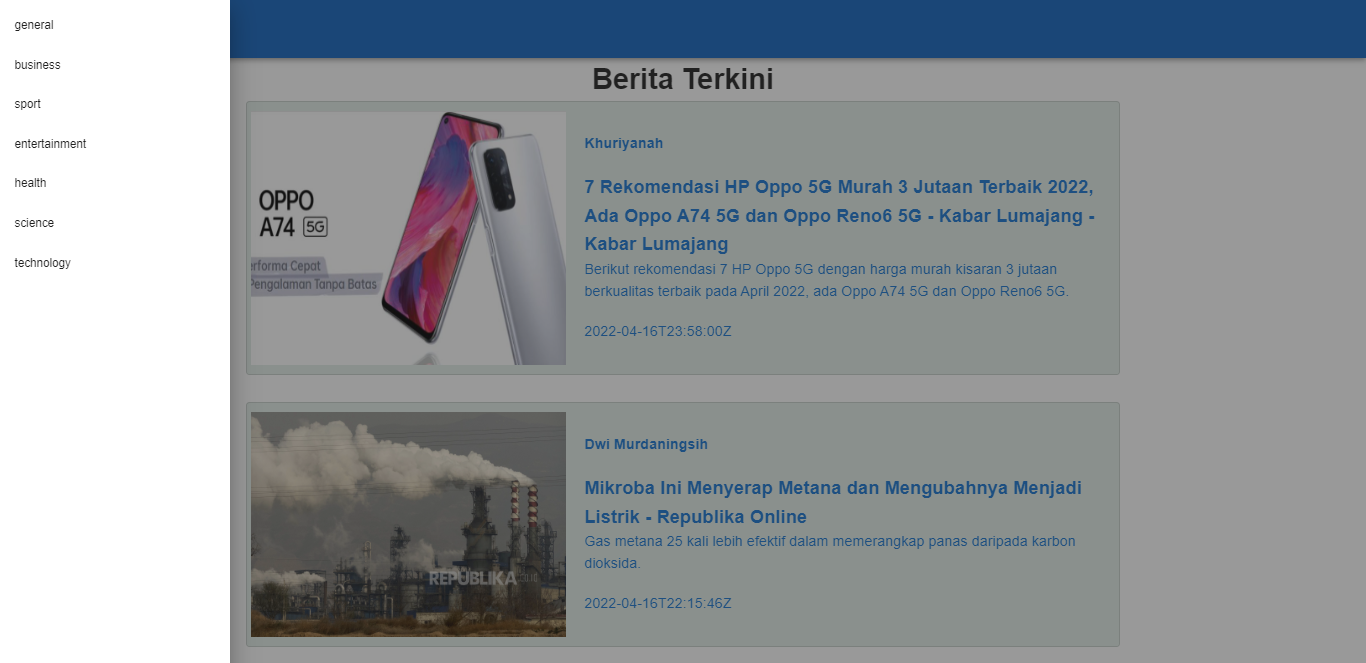
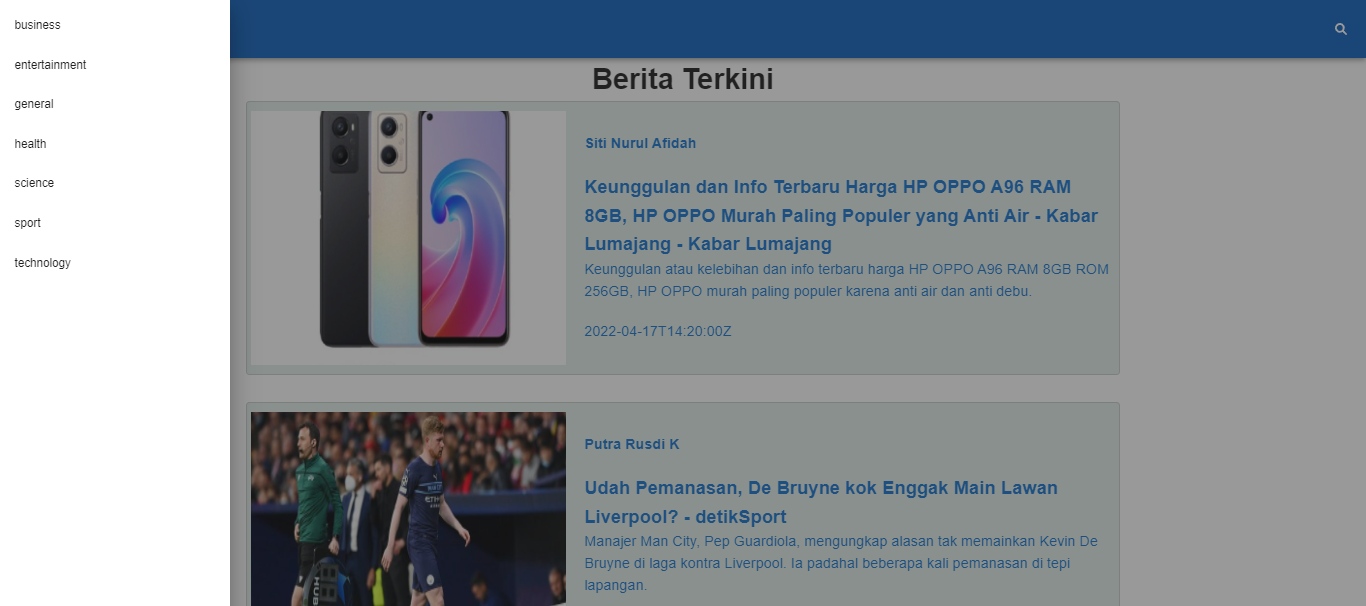
edited task Vue UI Framework

diff --git a/17_Vue UI Framework/pratikum/task-vue-ui/src/App.vue b/17_Vue UI Framework/pratikum/task-vue-ui/src/App.vue
@@ -4,18 +4,15 @@
       color="blue darken-3"
       dark
       >
-      <v-app-bar-nav-icon @click.stop="drawer = !drawer"></v-app-bar-nav-icon>
+      <v-app-bar-nav-icon @click.stop="drawer = !drawer">
+        <font-awesome-icon icon="fa-solid fa-bars" />
+      </v-app-bar-nav-icon>
       <v-toolbar-title>Berita</v-toolbar-title>
       <v-spacer></v-spacer>
-      <!-- <v-btn icon>
-        <v-icon>mdi-magnify</v-icon>
-      </v-btn>
       <v-btn icon>
-        <v-icon>mdi-filter</v-icon>
+        <font-awesome-icon icon="fa-solid fa-search" />
       </v-btn>
-      <v-btn icon>
-        <v-icon>mdi-dots-vertical</v-icon>
-      </v-btn> -->
+      
     </v-app-bar>
 
     <v-navigation-drawer
@@ -32,20 +29,12 @@
           v-model="group"
           active-class="deep-purple--text text--accent-4"
         >
-          <v-list-item v-for="(item, index) in CategoryItems" :key=index @click="kategori(item)">
+          <v-list-item v-for="(item, index) in CategoryItems" :key='index' @click="category(item)">
             <v-list-item-title> {{ item }} </v-list-item-title>
           </v-list-item>
 
           <!-- <v-list-item>
-            <v-list-item-title>Bar</v-list-item-title>
-          </v-list-item>
-
-          <v-list-item>
-            <v-list-item-title>Fizz</v-list-item-title>
-          </v-list-item>
-
-          <v-list-item>
-            <v-list-item-title>Buzz</v-list-item-title>
+            <v-list-item-title></v-list-item-title>
           </v-list-item> -->
         </v-list-item-group>
       </v-list>
@@ -59,7 +48,8 @@ export default {
   name: 'App',
   data () {
     return {
-      CategoryItems: ['general', 'business', 'sport', 'entertainment', 'health', 'science', 'technology'],
+      CategoryItems: ['business', 'entertainment', 'general', 'health', 'science', 'sport', 'technology'],
+      group: null,
       drawer: false,
     }
   },
@@ -67,7 +57,12 @@ export default {
     category(param) {
       return this.$store.dispatch('categoryListNews', param);
     },
-  }
+  },
+  watch: {
+    group () {
+      this.drawer = false
+    },
+  },
 }
 </script>
 

diff --git a/17_Vue UI Framework/pratikum/task-vue-ui/src/store/news.js b/17_Vue UI Framework/pratikum/task-vue-ui/src/store/news.js
@@ -2,13 +2,15 @@ import axios from "axios";
 const state = {
   lists: [],
   error: "",
+  kategori: "business",
   totalResults: 0,
 };
 
 const mutations = {
   setNews(state, param) {
+    // state.lists = param.articles;
+    // state.totalResults = param.totalResults;
     state.lists = param.articles;
-    state.totalResults = param.totalResults;
   },
   setError(state, param) {
     state.error = param;
@@ -22,22 +24,22 @@ const actions = {
   fetchListNews(store) {
     axios
       .get(
-        'https://newsapi.org/v2/top-headlines?country=id' +
-        // '&category=' + store.state.kategori + '&q=' +
+        'https://newsapi.org/v2/top-headlines?country=id&category=' +
+        store.state.kategori + '&q=' +
         '&apiKey=c47208e37dc0497a98950af0b017de2b'
       )
       .then((response) => {
-        console.log("fetchListNews set global state");
+        // console.log("fetchListNews set global state");
         store.commit("setNews", response.data);
       })
       .catch((error) => {
-        console.log("fetchListNews set global state error", error.message);
+        // console.log("fetchListNews set global state error", error.message);
         console.log("error status: ", error.response.status);
         store.commit("setError", error.msg);
       });
   },
-  categoryListNews(store, payload) {
-    store.commit('setCategory', payload);
+  categoryListNews(store, category) {
+    store.commit('setCategory', category);
     store.dispatch('fetchListNews');
   },
 };

diff --git a/17_Vue UI Framework/pratikum/task-vue-ui/src/main.js b/17_Vue UI Framework/pratikum/task-vue-ui/src/main.js
@@ -4,8 +4,16 @@ import store from './store'
 import router from './router'
 
 import vuetify from '@/plugins/vuetify' // path to vuetify export
-import Vuetify from "vuetify";
-import "vuetify/dist/vuetify.min.css";
+import Vuetify from "vuetify"
+import "vuetify/dist/vuetify.min.css"
+
+import { library } from '@fortawesome/fontawesome-svg-core' // import the fontawesome core
+import { faBars } from '@fortawesome/free-solid-svg-icons' // import specific icons
+import { faSearch } from '@fortawesome/free-solid-svg-icons' // import specific icons
+import { FontAwesomeIcon } from '@fortawesome/vue-fontawesome' // import font awesome icon component
+
+library.add(faBars, faSearch) // add icons to the library
+Vue.component('font-awesome-icon', FontAwesomeIcon) // add font awesome icon component
 
 Vue.config.productionTip = false
 

diff --git a/17_Vue UI Framework/pratikum/task-vue-ui/src/components/ItemNews.vue b/17_Vue UI Framework/pratikum/task-vue-ui/src/components/ItemNews.vue
@@ -20,6 +20,9 @@ export default {
   props: {
     news: Object,
   },
+  mounted () {
+        this.$store.dispatch('fetchNewsList');
+    },
 };
 </script>
 
